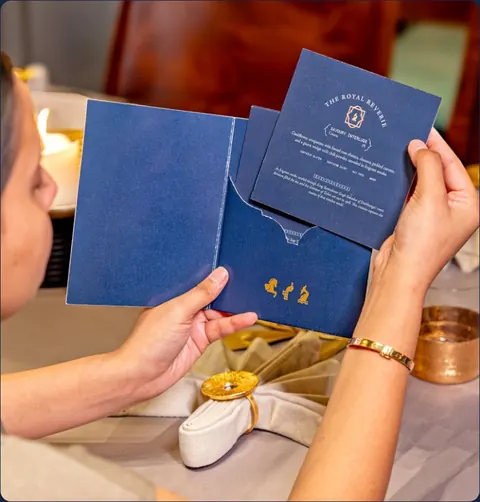
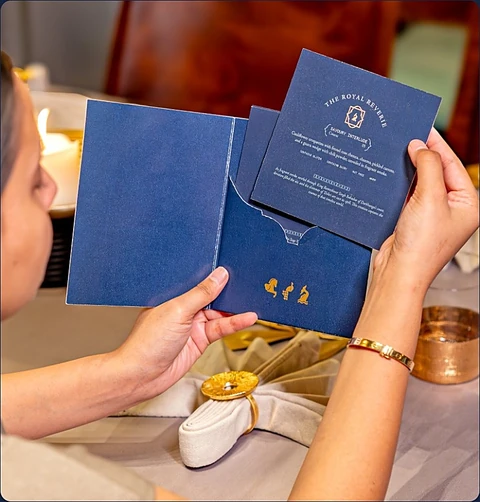
Itinerary walk in HD: full-resolution photos, sharpened; small photos shown sharp in a frame
Photos re-exported at their full size (up to 2248 px) with light sharpening, WebP quality 90, plus a
1080 px version for phones. A photo that would have to be stretched more than 1.35x to fill the screen
is shown at up to 1.2x its real pixels, framed over a blurred copy of itself, so nothing looks soft.

Claude-Session: https://claude.ai/code/session_01DZ3u3j1Rjrz1EjDarMZkSU

diff --git a/src/content/itinerary-walk.js b/src/content/itinerary-walk.js
@@ -1,5 +1,5 @@
 // The Dev Deepawali itinerary as a walk through real places. One entry per scene, in order.
-// photo: file name in /public/walk (sizes listed in `w`); focus: where the camera walks towards (x% y%)
+// photo: file name in /public/walk (widths listed in `w`; `size` is the original in pixels); focus: where the camera walks towards (x% y%)
 // alt: what the photo shows. Copy follows the brochure. No temple names; no em dashes.
 
 export const DAYS = [
@@ -10,27 +10,27 @@ export const DAYS = [
 
 export const STOPS = [
   {
-    day: 'd1', photo: 'tents', w: [960, 1920], focus: '62% 38%', time: 'On arrival', title: 'Home, for the journey',
+    day: 'd1', photo: 'tents', w: [1080, 2182], size: [2182, 2499], focus: '62% 38%', time: 'On arrival', title: 'Home, for the journey',
     text: 'A private car brings you from the station or airport to Om Vilas Resort: tented suites in gardens, lantern-lit paths, and a traditional welcome with a tilak and an aarti thali.',
     alt: 'The white tented suites of Om Vilas Resort along a garden path',
   },
   {
-    day: 'd1', photo: 'verandah', w: [960], focus: '40% 60%', time: 'Late morning', title: 'Settle in',
+    day: 'd1', photo: 'verandah', w: [813], size: [813, 697], focus: '40% 60%', time: 'Late morning', title: 'Settle in',
     text: 'Brunch at the resort, then henna at the reception from 11 AM to 1 PM: slow, fragrant and unhurried.',
     alt: 'A shaded verandah with cane chairs looking out over the resort lawns',
   },
   {
-    day: 'd1', photo: 'gate', w: [960, 1920], focus: '50% 70%', time: '3:00 PM', title: 'Into the old city',
+    day: 'd1', photo: 'gate', w: [1080, 1536], size: [1536, 1130], focus: '50% 70%', time: '3:00 PM', title: 'Into the old city',
     text: 'A temple visit, then a guided heritage walk through the lanes of Kashi. At five, the story of Varanasi unfolds in light at the laser show at Man Singh Observatory.',
     alt: 'A carved stone gateway framing a spire in the old city of Varanasi',
   },
   {
-    day: 'd1', photo: 'aarti', w: [960], focus: '45% 40%', time: 'Dusk', title: 'Ganga Aarti, by boat',
+    day: 'd1', photo: 'aarti', w: [1021], size: [1021, 642], focus: '45% 40%', time: 'Dusk', title: 'Ganga Aarti, by boat',
     text: 'As dusk settles over Kashi, we take to the river to watch the Ganga Aarti at Dashashwamedh Ghat: sacred chants, flickering flames and the river’s timeless rhythm.',
     alt: 'A priest raising a tiered flame during the Ganga Aarti before a crowd on the ghat',
   },
   {
-    day: 'd1', photo: 'aangan', w: [960, 1920], focus: '50% 62%', time: '7:30 PM', title: 'A table by the river',
+    day: 'd1', photo: 'aangan', w: [1080, 2248], size: [2248, 2499], focus: '50% 62%', time: '7:30 PM', title: 'A table by the river',
     text: 'Ten courses at Aangan, BrijRama Palace, served with storytelling: three royal houses, told one course at a time.',
     alt: 'A candlelit table set for dinner beneath carved arches at Aangan, BrijRama Palace',
     extras: [
@@ -40,27 +40,27 @@ export const STOPS = [
     ],
   },
   {
-    day: 'd1', photo: 'night-aarti', w: [960, 1920], focus: '45% 72%', time: '10:30 PM', title: 'The night aarti',
+    day: 'd1', photo: 'night-aarti', w: [1080, 1826], size: [1826, 2499], focus: '45% 72%', time: '10:30 PM', title: 'The night aarti',
     text: 'An 800 metre walk from the palace to the temple for the Shayan Aarti, the last ritual of the day, with VIP entry. Then, back to the resort.',
     alt: 'Oil lamps glowing during the night aarti inside the temple',
   },
   {
-    day: 'd2', photo: 'grounds', w: [960], focus: '50% 55%', time: '8:30 AM', title: 'A slower morning',
+    day: 'd2', photo: 'grounds', w: [813], size: [813, 697], focus: '50% 55%', time: '8:30 AM', title: 'A slower morning',
     text: 'The morning is yours. Wake slowly, savour the calm of the resort and gather for brunch, before the city calls.',
     alt: 'Guests riding a yellow buggy past the tents at Om Vilas Resort',
   },
   {
-    day: 'd2', photo: 'boat', w: [960, 1920], focus: '42% 62%', time: '4:00 PM to sunset', title: 'High tea on the waters',
+    day: 'd2', photo: 'boat', w: [1080, 1575], size: [1575, 938], focus: '42% 62%', time: '4:00 PM to sunset', title: 'High tea on the waters',
     text: 'Our car brings you to Gaay Ghat to board in good time. Then ghat to ghat by boat, with chai, coffee and Banarasi chaat, as the city turns to gold.',
     alt: 'A garlanded, lantern-lit boat on the Ganges with the ghats glowing behind',
   },
   {
-    day: 'd2', photo: 'ghats-night', w: [960], focus: '60% 45%', time: 'Night', title: 'The night of the lamps',
+    day: 'd2', photo: 'ghats-night', w: [850], size: [850, 557], focus: '60% 45%', time: 'Night', title: 'The night of the lamps',
     text: 'The lamps are lit and the river fills with light: Dev Deepawali, with fireworks and laser shows across the ghats. Dinner awaits back at the resort.',
     alt: 'The ghats of Varanasi ablaze with lamps and lights on Dev Deepawali night',
   },
   {
-    day: 'd3', photo: 'tents', w: [960, 1920], focus: '30% 70%', time: 'Morning', title: 'A Banarasi silk, and farewell',
+    day: 'd3', photo: 'tents', w: [1080, 2182], size: [2182, 2499], focus: '30% 70%', time: 'Morning', title: 'A Banarasi silk, and farewell',
     text: 'If your departure allows, our car takes you to the market for a Banarasi silk of your own. Then a private transfer to the station or airport, and the close of this chapter.',
     alt: 'The garden path between the tents at Om Vilas Resort',
   },

diff --git a/src/components/ItineraryWalk.jsx b/src/components/ItineraryWalk.jsx
@@ -31,6 +31,34 @@ export default function ItineraryWalk() {
     document.documentElement.classList.add('iw-on');
     imgs.forEach((im) => { if (im) im.loading = 'eager'; });
 
+    // A photo that would have to be enlarged a lot to fill the screen is shown sharp at (close to) its own size,
+    // framed over a blurred copy of itself; large photos fill the screen.
+    const framed = new Array(n).fill(false);
+    const layout = () => {
+      const dpr = Math.min(window.devicePixelRatio || 1, 3);
+      const W = stage.clientWidth; const Hs = stage.clientHeight;
+      const phone = W <= 700;
+      const top = (header ? clamp(header.getBoundingClientRect().bottom, 0, 200) : 0) + (phone ? 52 : 70);
+      scenes.forEach((sc, j) => {
+        const [nw, nh] = STOPS[j].size;
+        const stretch = Math.max((W * dpr) / nw, (Hs * dpr) / nh);
+        framed[j] = stretch > 1.35;
+        sc.classList.toggle('is-framed', framed[j]);
+        const im = imgs[j];
+        if (!framed[j]) { im.style.width = ''; im.style.height = ''; im.style.left = ''; im.style.top = ''; return; }
+        // as large as the space allows without enlarging the photo beyond 1.2x its real pixels
+        const boxW = phone ? W - 28 : W * 0.5;
+        const boxH = phone ? Math.max(160, Hs - top - cards[j].offsetHeight - 40) : Hs - top - 60;
+        const k = Math.min(boxW / nw, boxH / nh, 1.2 / dpr);
+        const w = Math.round(nw * k);
+        const h = Math.round((w * nh) / nw);
+        im.style.width = `${w}px`;
+        im.style.height = `${h}px`;
+        im.style.left = phone ? `${Math.round((W - w) / 2)}px` : `${Math.round(W * 0.47 + (W * 0.5 - w) / 2)}px`;
+        im.style.top = `${Math.round(top + (boxH - h) / 2)}px`;
+      });
+    };
+
     let raf = 0; let lastDay = '';
     const frame = () => {
       raf = 0;
@@ -46,7 +74,9 @@ export default function ItineraryWalk() {
         sc.style.opacity = op.toFixed(3);
         if (op > 0 && imgs[j]) {
           // walking forward: the photograph grows towards its focus point, faster as we pass through
-          const s = d < 0.5 ? 1 + 0.12 * clamp(d + 0.6, 0, 1.1) : 1.132 + 0.45 * (d - 0.5);
+          const s = framed[j]
+            ? (d < 0.5 ? 1 + 0.05 * clamp(d + 0.6, 0, 1.1) : 1.055 + 0.3 * (d - 0.5))
+            : (d < 0.5 ? 1 + 0.12 * clamp(d + 0.6, 0, 1.1) : 1.132 + 0.45 * (d - 0.5));
           imgs[j].style.transform = `scale(${s.toFixed(4)})`;
         }
         const c = cards[j];
@@ -61,12 +91,14 @@ export default function ItineraryWalk() {
       if (day !== lastDay) { lastDay = day; ticks.forEach((t) => t.classList.toggle('is-on', t.dataset.day === day)); }
     };
     const onScroll = () => { if (!raf) raf = requestAnimationFrame(frame); };
+    const onResize = () => { layout(); onScroll(); };
+    layout();
     frame();
     window.addEventListener('scroll', onScroll, { passive: true });
-    window.addEventListener('resize', onScroll);
+    window.addEventListener('resize', onResize);
     return () => {
       window.removeEventListener('scroll', onScroll);
-      window.removeEventListener('resize', onScroll);
+      window.removeEventListener('resize', onResize);
       if (raf) cancelAnimationFrame(raf);
       walk.classList.remove('is-live');
       document.documentElement.classList.remove('iw-on');
@@ -91,6 +123,7 @@ export default function ItineraryWalk() {
               return (
                 <li key={i} className="iw-stop" style={{ '--focus': s.focus, zIndex: i + 1 }}>
                   <figure className="iw-photo">
+                    <span className="iw-blur" aria-hidden="true" style={{ backgroundImage: `url(${src(s.photo, s.w[0])})` }} />
                     <img
                       src={src(s.photo, s.w[0])}
                       srcSet={s.w.map((w) => `${src(s.photo, w)} ${w}w`).join(', ')}

diff --git a/src/styles/itinerary.css b/src/styles/itinerary.css
@@ -41,6 +41,13 @@
   radial-gradient(120% 90% at 50% 45%,rgba(0,0,0,0) 55%,rgba(0,0,0,.35) 100%)}
 .is-live .iw-card{position:absolute;left:max(24px,4vw);bottom:max(28px,6vh);width:min(470px,calc(100% - 48px));box-sizing:border-box;border:1px solid rgba(184,155,101,.55);border-radius:14px;background:rgba(251,247,239,.95);box-shadow:0 22px 50px rgba(0,0,0,.28);opacity:0;will-change:transform,opacity}
 
+/* framed: a small photo shown sharp at its own size over a blurred copy of itself */
+.iw-blur{display:none}
+.is-live .iw-blur{display:block;position:absolute;inset:-60px;background-size:cover;background-position:center;filter:blur(30px) brightness(.5) saturate(1.15);opacity:0;transition:opacity .3s}
+.is-live .is-framed .iw-blur{opacity:1}
+.is-live .is-framed .iw-photo img{position:absolute;object-fit:cover;border-radius:10px;border:1px solid rgba(230,204,148,.45);box-shadow:0 30px 70px rgba(0,0,0,.5);transform-origin:50% 50%}
+.is-live .is-framed .iw-photo::after{background:linear-gradient(180deg,rgba(10,16,30,.35) 0,rgba(10,16,30,0) 30%,rgba(10,16,30,0) 60%,rgba(10,16,30,.45) 100%)}
+
 /* heads-up: days and progress, over the photograph */
 .is-live .iw-hud{display:flex;position:absolute;z-index:40;left:max(24px,4vw);right:max(24px,4vw);top:calc(var(--hdr,0px) + 20px);align-items:center;gap:18px;color:#F3EBD8}
 .iw-days{display:flex;gap:22px}
